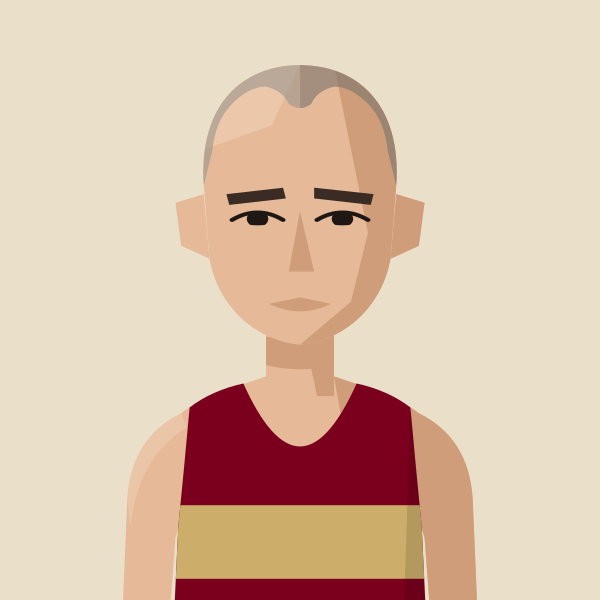
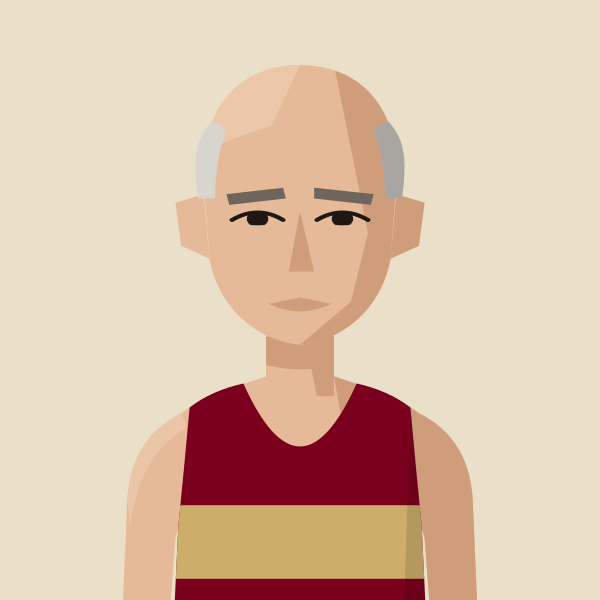
Will Cockerell: bald on top, short white hair at the sides
Claude-Session: https://claude.ai/code/session_01MgmDWhFqnSSnP4iBLKXUZC

Changed region(s): [[0.33, 0.09, 0.63, 0.33], [0.51, 0.18, 0.69, 0.36], [0.36, 0.3, 0.48, 0.36]]

diff --git a/tools/gen_portraits.py b/tools/gen_portraits.py
@@ -128,7 +128,7 @@ FACIAL = {
     "stubble": '<path d="M66,112 L74,124 L84,146 L116,146 L126,124 L134,112 L134,180 L66,180 Z" opacity=".32"/>',
 }
 
-def figure(kit, mode="custom", skin=1, hair="crop", hair_colour="dark brown", facial=None, cap=None, shades=False, tattoos=False, beanie=None, mud=False, glasses=False, roots=None, stars=0, gaunt=False, greying=False, headband=None, cap_back=False, facial_colour=None, tag="f", shades_col=None, shades_up=False, scrunchie=None, crown=False, jacket=None, medal=None, temples=False, cleft=False):
+def figure(kit, mode="custom", skin=1, hair="crop", hair_colour="dark brown", facial=None, cap=None, shades=False, tattoos=False, beanie=None, mud=False, glasses=False, roots=None, stars=0, gaunt=False, greying=False, headband=None, cap_back=False, facial_colour=None, tag="f", shades_col=None, shades_up=False, scrunchie=None, crown=False, jacket=None, medal=None, temples=False, cleft=False, brow_colour=None):
     primary, extras, ground = KITS[kit]
     line = mode == "outline"
     if mode == "custom": sk, dk, lt = SKIN[skin]
@@ -174,6 +174,7 @@ def figure(kit, mode="custom", skin=1, hair="crop", hair_colour="dark brown", fa
         ink = "#1E1714"
         brow = hc if hair_colour not in ("grey", "blonde", "ginger", "bleached") else {"grey": "#8C8A86", "blonde": "#9A7A45", "ginger": "#A65A2A", "bleached": "#6B4A2E"}[hair_colour]
         if hair in ("buzz","buzzrecede") or hair is None: brow = "#3A2C24" if skin <= 3 else "#1E1714"
+        if brow_colour: brow = brow_colour
         hg += [f'<g fill="{brow}"><polygon points="74,100 94,97 95,102 75,105"/><polygon points="105,97 126,100 125,105 105,102"/></g>',
                f'<g clip-path="url(#e{tag})" fill="{ink}"><circle cx="85" cy="111.5" r="3.8"/><circle cx="115" cy="111.5" r="3.8"/></g>'
                f'<g fill="none" stroke="{ink}" stroke-width="1.8" stroke-linecap="round"><path d="M76,112 Q85,105 94,112"/><path d="M106,112 Q115,105 124,112"/></g>',
@@ -473,5 +474,5 @@ save("john-gilbert", figure("KEN", skin=1, hair="fringe", hair_colour="#5C3D28",
 save("chris-busaileh", figure("KEN", skin=1, hair="croppeak", hair_colour="#A85A30"))
 save("jim-allchin", figure("KEN", skin=1, hair="longstraight", hair_colour="#86593A", headband="#C8323A", facial="stubble"))
 save("finn-johnson", figure("H/W", skin=2, hair="quiffrecede", hair_colour="#3A2620", facial="beard"))
-save("will-cockerell", figure("BEL", skin=2, hair="buzzrecede", hair_colour="#9A948C"))
+save("will-cockerell", figure("BEL", skin=2, hair="horseshoe", hair_colour="#D8D5CF", brow_colour="#6E655C"))
 save("nick-goolab", figure("BEL", skin=3, hair="slicktail", hair_colour="#1C1714", facial="stubble", cleft=True))
